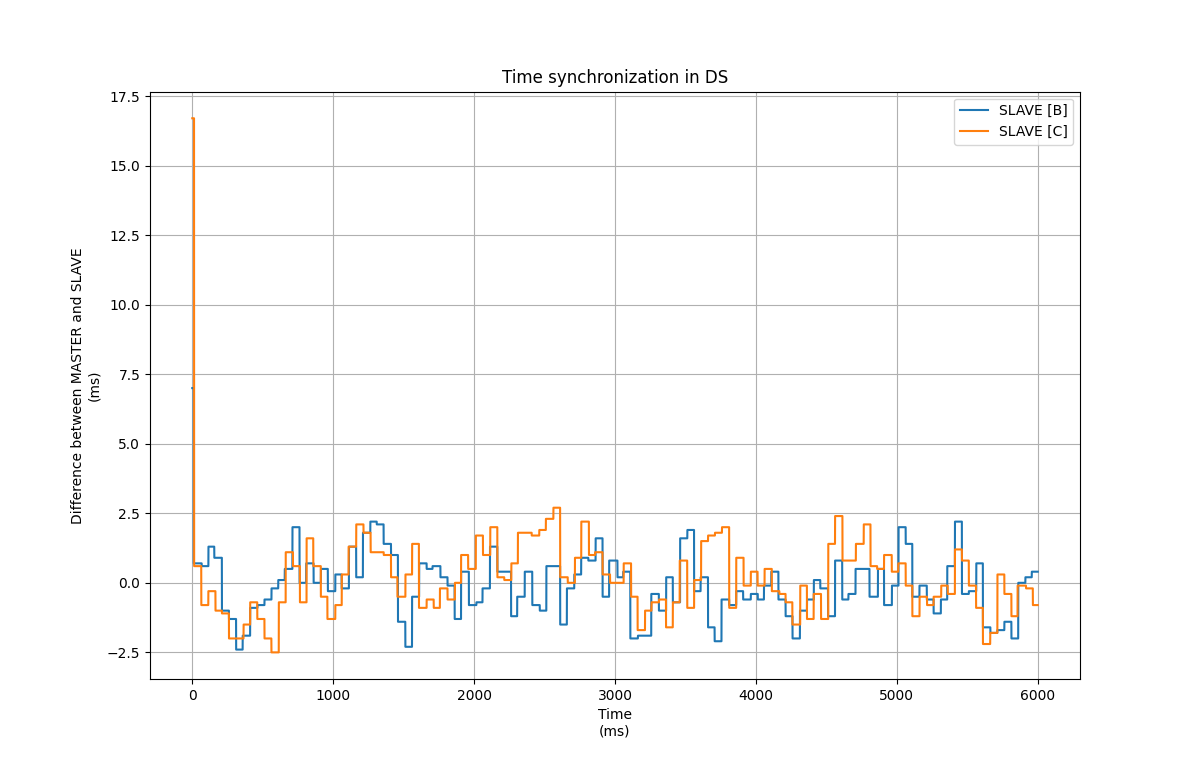
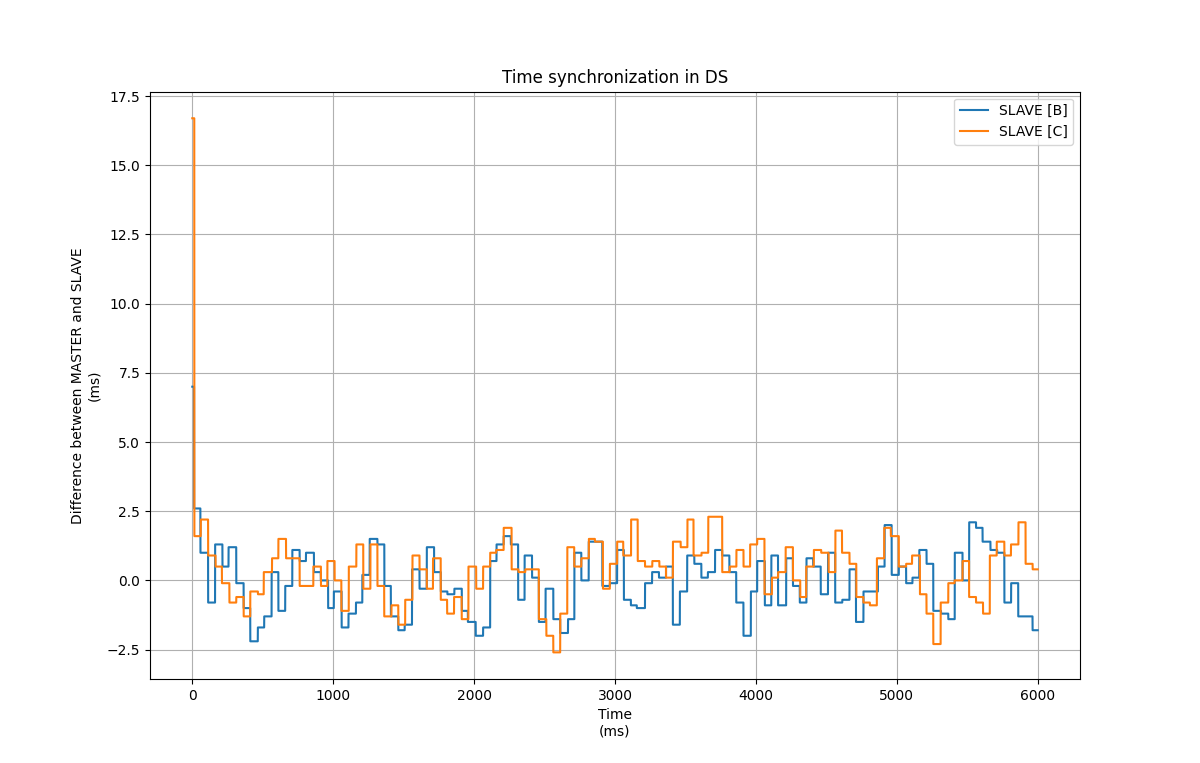
Replace B1 graph

diff --git a/code/simulation/main.c b/code/simulation/main.c
@@ -59,21 +59,21 @@ int main(int argc, char const *argv[])
    A.status = MASTER;
    A.time = 0;
    A.is_first_setup = 0;
-   A.latency = 10;
+   // A.latency = 10;
 
    B.time = 70;
-   B.latency = 12;
+   // B.latency = 12;
 
    C.time = 167;
-   C.latency = 8;
+   // C.latency = 8;
    // ****** CONFIG ******
 
    while (game->deadline > game->time || !game->deadline) {
 
       // set rnd latency
-      // A.latency = get_rnd_between(10, 60); // latency is 1 - 6 ms
-      // B.latency = get_rnd_between(10, 60); // latency is 1 - 6 ms
-      // C.latency = get_rnd_between(10, 60); // latency is 1 - 6 ms
+      A.latency = get_rnd_between(10, 60); // latency is 1 - 6 ms
+      B.latency = get_rnd_between(10, 60); // latency is 1 - 6 ms
+      C.latency = get_rnd_between(10, 60); // latency is 1 - 6 ms
 
       // time incementation
       for (uint8_t i = 0; i < game->nodes_count; ++i) {
